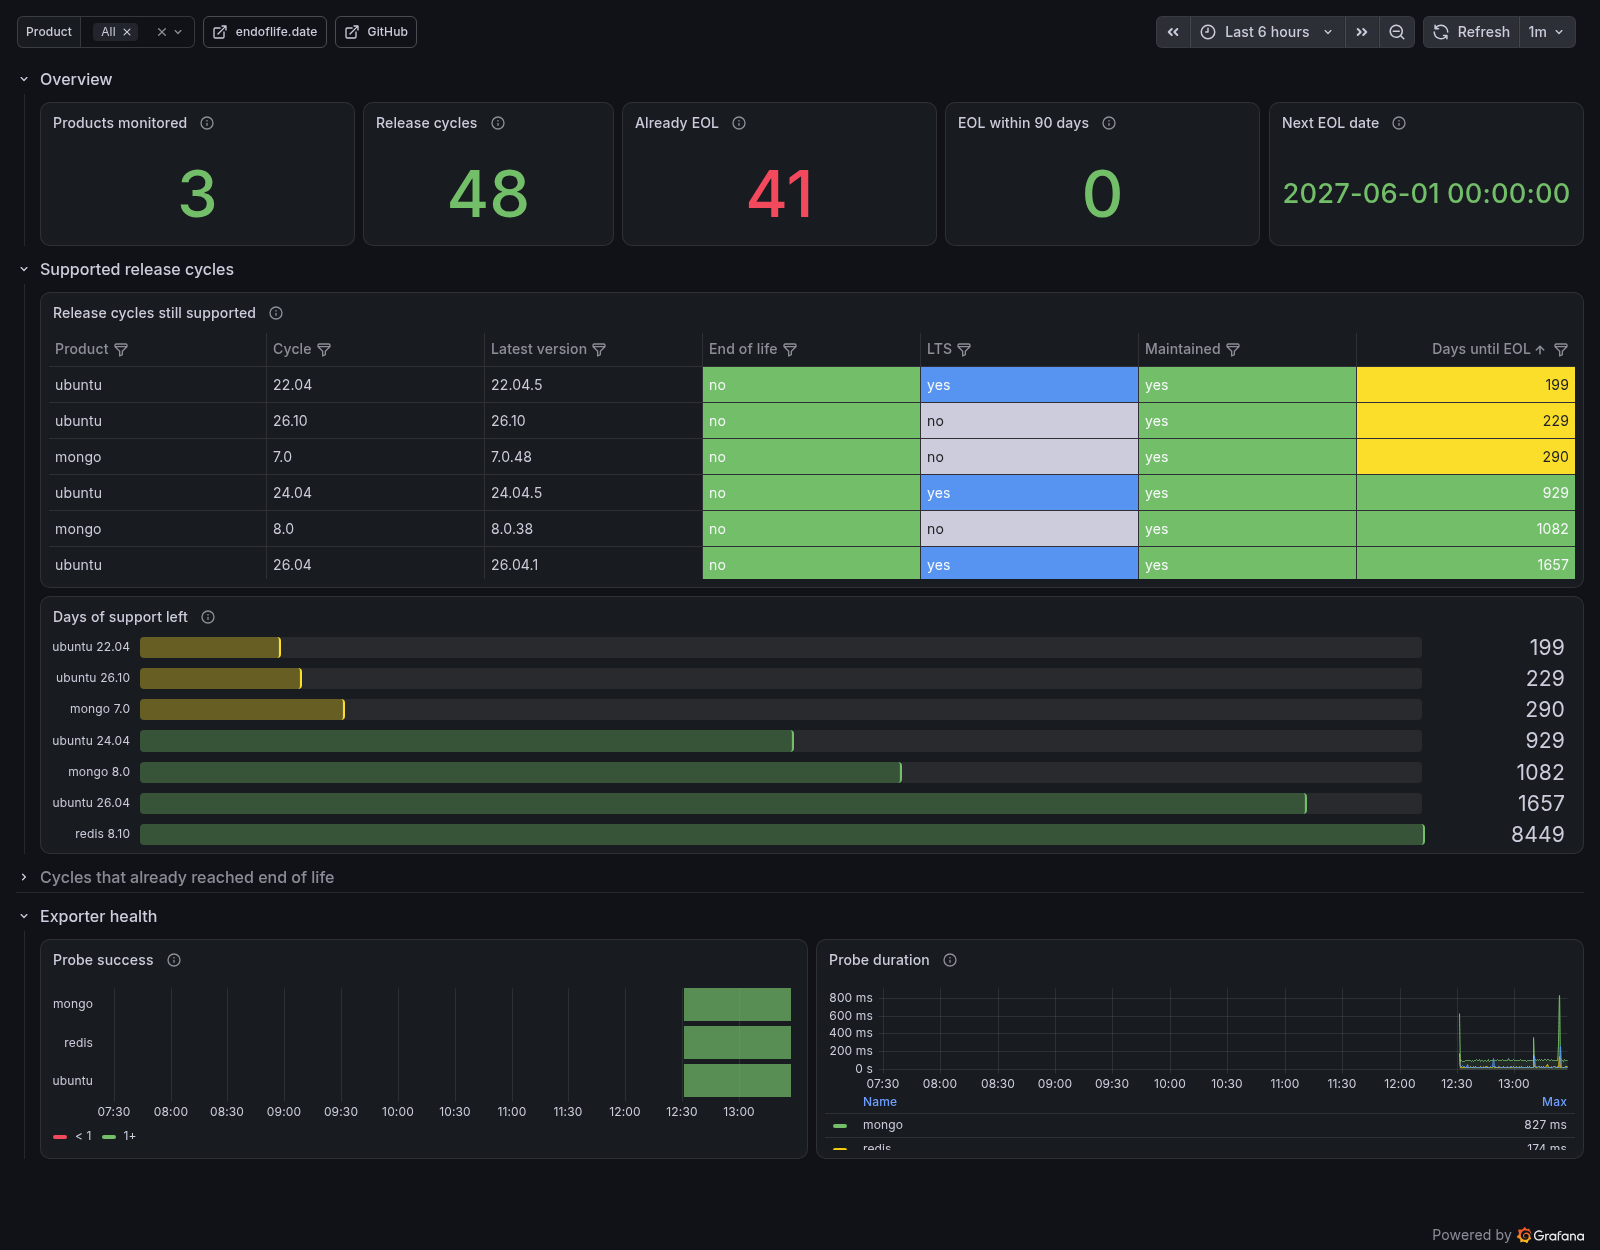
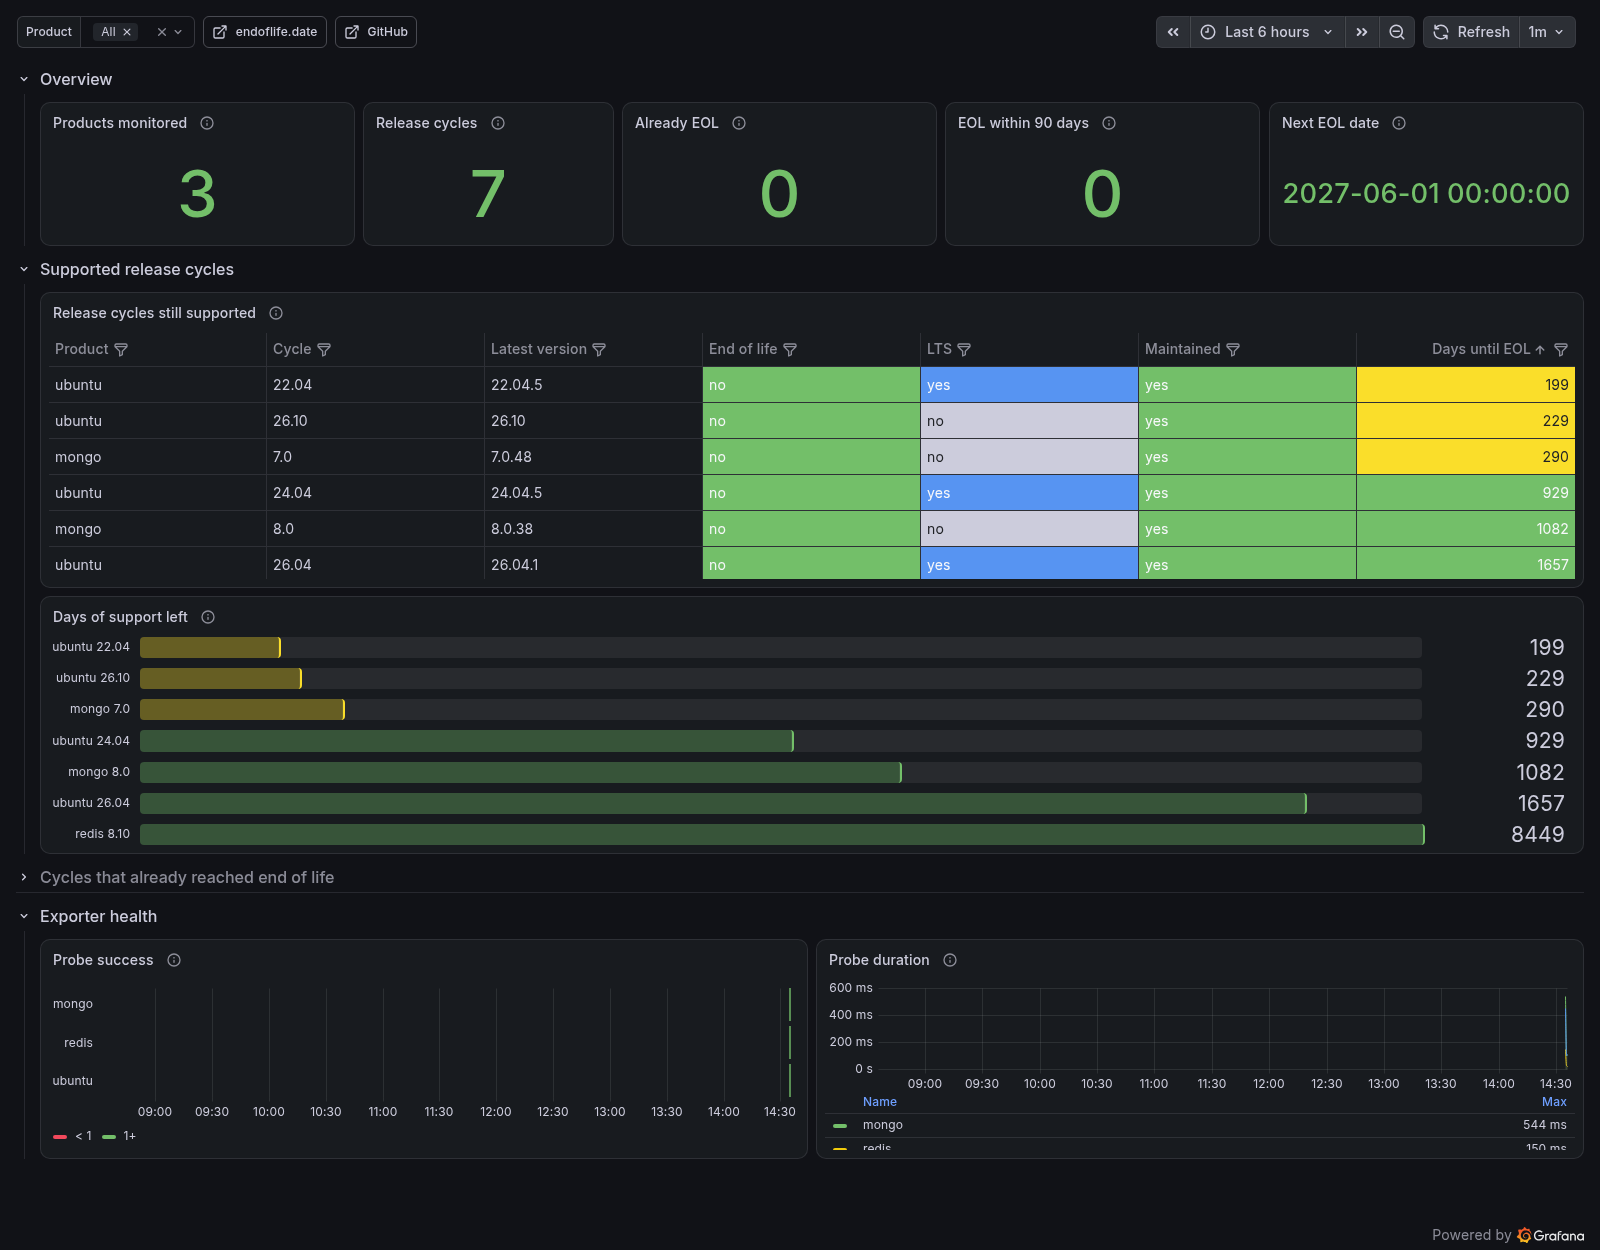
fix(development): scrape recent ubuntu cycles instead of every one ever
`releases: all` pulled 45 Ubuntu cycles (4.10 from 2004 onwards), 41 of them
long dead, so the dashboard showed "48 release cycles, 41 already EOL" for a
three product stack. The sample now asks for the four recent cycles and the
stack shows 3 products, 7 cycles, 0 EOL.

The dev README calls out that `all` means "every cycle the product ever had".

diff --git a/development/README.md b/development/README.md
@@ -24,7 +24,9 @@ Grafana opens with anonymous admin access, so no login is needed.
 - `endoflife_products` — one `/probe` scrape per product. The target is the
   endoflife.date slug; the optional `releases` label picks the release cycles.
 
-Add products by appending to `static_configs`:
+Add products by appending to `static_configs`. The `releases` label takes a
+comma-separated list of cycles, or `all` for every cycle the product ever had (which pulls
+in long-dead releases, so the counters get large):
 
 ```yaml
       - targets: ["postgres"]
